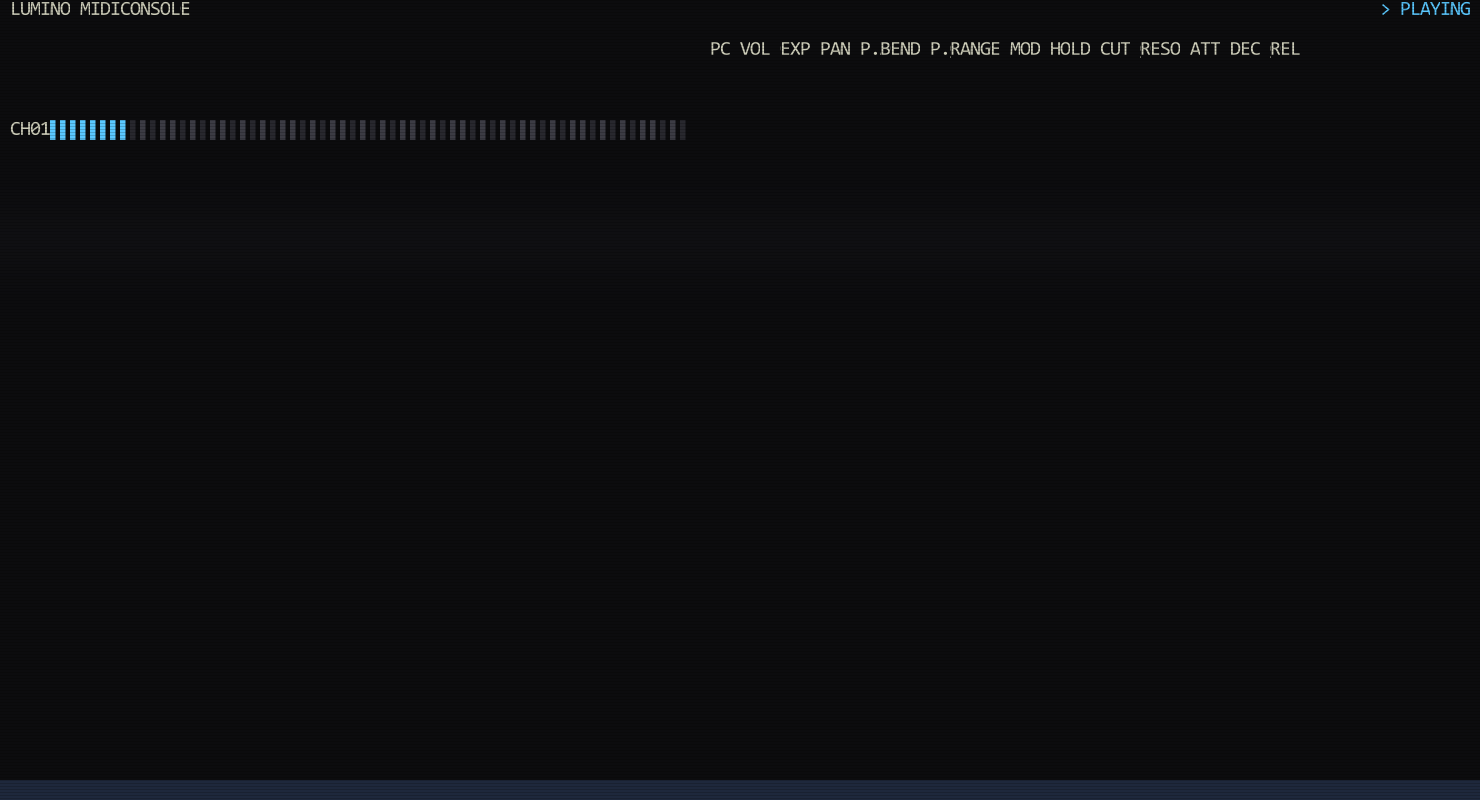
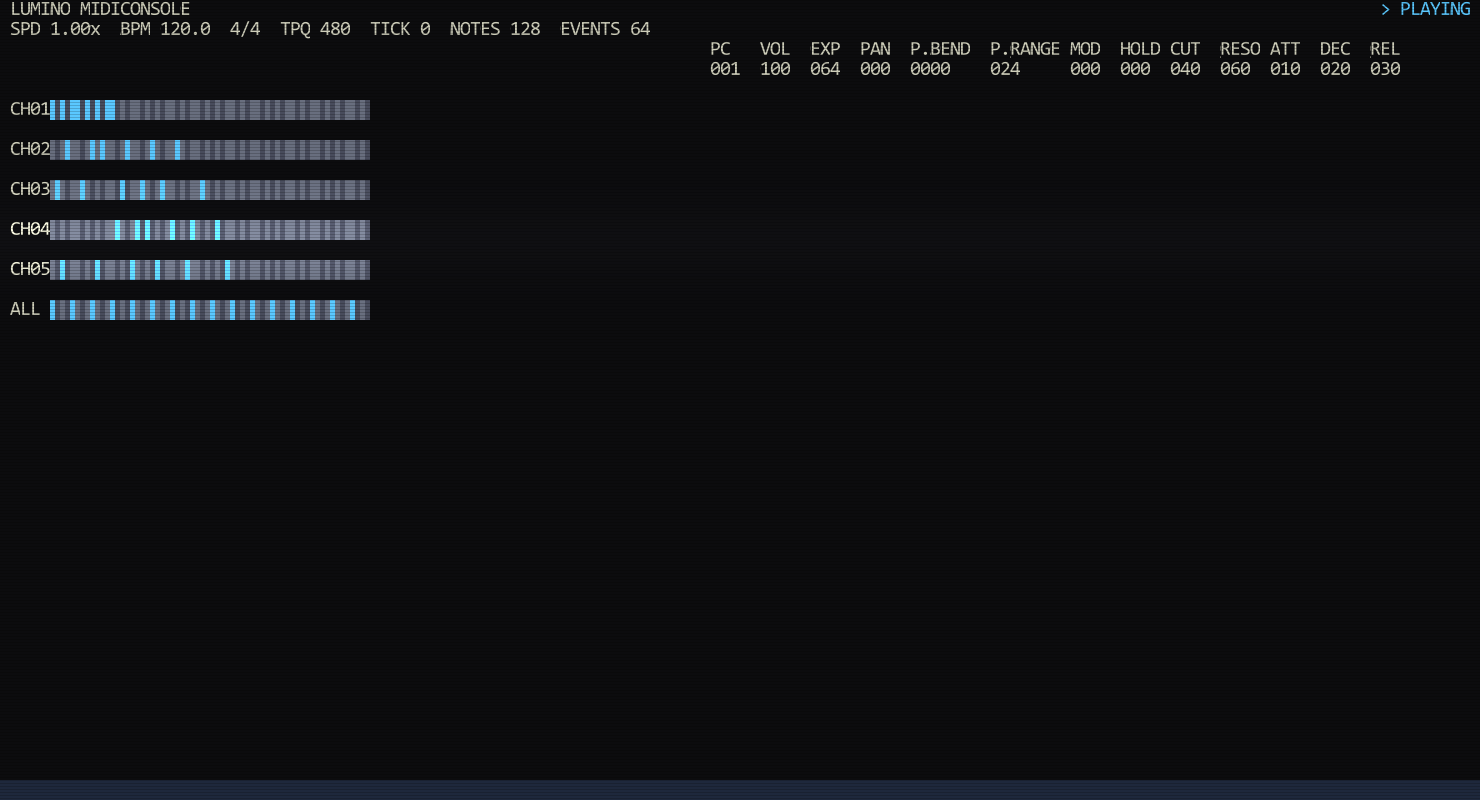
feat(gfx): 更新 MIDI 控制台渲染预览与半块字符绘制
- 在 GPU 着色器中程序化绘制半块字符 ▌，使键盘条与 CPU 端语义一致
- 调整控制台预览测试，增加多行键盘条和状态行
- 更新黑/白键及标签颜色，提高对比度

diff --git a/crates/editor/gfx/src/midiconsole_renderer/tests/preview.rs b/crates/editor/gfx/src/midiconsole_renderer/tests/preview.rs
@@ -42,8 +42,8 @@ fn test_gpu_renders_preview_png() {
 
     let bg_dark: u32 = pack_rgb(12, 12, 14);
     let fg_light: u32 = pack_rgb(205, 205, 185);
-    let key_black: u32 = pack_rgb(40, 40, 46);
-    let key_white: u32 = pack_rgb(60, 60, 68);
+    let key_black: u32 = pack_rgb(72, 76, 92);
+    let key_white: u32 = pack_rgb(104, 110, 126);
     let warm: u32 = pack_rgb(90, 200, 255);
 
     let mut grid = vec![
@@ -59,28 +59,68 @@ fn test_gpu_renders_preview_png() {
     for (i, c) in "> PLAYING".chars().enumerate() {
         set(&mut grid, 0, GRID_COLS - 10 + i, c, warm, bg_dark);
     }
-
-    // 控制面板标签行
-    let labels = "PC VOL EXP PAN P.BEND P.RANGE MOD HOLD CUT RESO ATT DEC REL";
-    for (i, c) in labels.chars().enumerate() {
-        set(&mut grid, 2, 71 + i, c, fg_light, bg_dark);
+    // 状态行
+    let stats = "SPD 1.00x  BPM 120.0  4/4  TPQ 480  TICK 0  NOTES 128  EVENTS 64";
+    for (i, c) in stats.chars().enumerate() {
+        set(&mut grid, 1, 1 + i, c, fg_light, bg_dark);
     }
 
-    // 一个键盘条（CH01）：左侧标签 + 64 个半块键，黑白交替并以暖色高亮若干
-    let row_kb = 6usize;
-    for (i, c) in "CH01".chars().enumerate() {
-        set(&mut grid, row_kb, 1 + i, c, fg_light, bg_dark);
+    // 控制面板：标签行 + 数值行（模拟真实 MidiConsole 的数据文字，验证对比度）
+    let labels = [
+        "PC", "VOL", "EXP", "PAN", "P.BEND", "P.RANGE", "MOD", "HOLD", "CUT", "RESO", "ATT", "DEC",
+        "REL",
+    ];
+    let values = [
+        "001", "100", "064", "000", "0000", "024", "000", "000", "040", "060", "010", "020", "030",
+    ];
+    let ctrl_cols = [71usize, 76, 81, 86, 91, 99, 107, 112, 117, 122, 127, 132, 137];
+    for f in 0..13usize {
+        for (i, c) in labels[f].chars().enumerate() {
+            set(&mut grid, 2, ctrl_cols[f] + i, c, fg_light, bg_dark);
+        }
+        for (i, c) in values[f].chars().enumerate() {
+            set(&mut grid, 3, ctrl_cols[f] + i, c, fg_light, bg_dark);
+        }
     }
-    for k in 0..64usize {
-        let (fg, bg) = if k % 12 == 1 || k % 12 == 3 || k % 12 == 6 || k % 12 == 8 || k % 12 == 10
-        {
-            (key_black, bg_dark)
-        } else {
-            (key_white, bg_dark)
-        };
-        let fg = if k < 8 { warm } else { fg };
-        set(&mut grid, row_kb, 5 + k, '\u{258C}', fg, bg);
-    }
+
+    // 多行键盘条（CH01..CH05 + ALL），左侧标签 + 半块键；每格 ▌ 左=键2i、右=键2i+1，
+    // 与 CPU 端 draw_keyboard_row 语义一致，键位之间连续无间隔
+    let draw_kb = |grid: &mut [CellGpu], row: usize, label: &str, lit: &[usize]| {
+        for (i, c) in label.chars().enumerate() {
+            set(grid, row, 1 + i, c, fg_light, bg_dark);
+        }
+        for i in 0..32usize {
+            let k0 = i * 2;
+            let k1 = i * 2 + 1;
+            let is_black = |k: usize| k % 12 == 1 || k % 12 == 3 || k % 12 == 6 || k % 12 == 8 || k % 12 == 10;
+            let col0 = if lit.contains(&k0) {
+                warm
+            } else if is_black(k0) {
+                key_black
+            } else {
+                key_white
+            };
+            let col1 = if lit.contains(&k1) {
+                warm
+            } else if is_black(k1) {
+                key_black
+            } else {
+                key_white
+            };
+            set(grid, row, 5 + i, '\u{258C}', col0, col1);
+        }
+    };
+    draw_kb(&mut grid, 5, "CH01", &[0, 2, 4, 5, 7, 9, 11, 12]);
+    draw_kb(&mut grid, 7, "CH02", &[3, 8, 10, 15, 20, 25]);
+    draw_kb(&mut grid, 9, "CH03", &[1, 6, 14, 18, 22, 30]);
+    draw_kb(&mut grid, 11, "CH04", &[13, 17, 19, 24, 28, 33]);
+    draw_kb(&mut grid, 13, "CH05", &[2, 9, 16, 21, 27, 35]);
+    draw_kb(
+        &mut grid,
+        15,
+        "ALL",
+        &[0, 4, 8, 12, 16, 20, 24, 28, 32, 36, 40, 44, 48, 52, 56, 60],
+    );
 
     // 保证可见性：底部整行用亮色背景填充（即便字体缺失也不会全黑）
     let bg_bright: u32 = pack_rgb(30, 40, 60);

diff --git a/src/runner/menu/window/video_export/midi_console.rs b/src/runner/menu/window/video_export/midi_console.rs
@@ -39,11 +39,11 @@ const CTRL_COLS: [u32; CONTROL_FIELDS] = [
 /// 调色板（近似 ANSI 真彩终端）
 const BG: [u8; 3] = [12, 12, 14];
 const TEXT: [u8; 3] = [200, 200, 210];
-const LABEL: [u8; 3] = [150, 150, 160];
+const LABEL: [u8; 3] = [190, 196, 216];
 const WARN: [u8; 3] = [210, 55, 55];
 /// 黑键 / 白键未按下时的底色
-const KEY_BLACK: [u8; 3] = [20, 20, 24];
-const KEY_WHITE: [u8; 3] = [34, 34, 40];
+const KEY_BLACK: [u8; 3] = [72, 76, 92];
+const KEY_WHITE: [u8; 3] = [104, 110, 126];
 
 /// 字符网格中的一个单元
 #[derive(Clone, Copy)]
